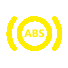
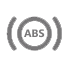
edit timer update_indicators

Changed region(s): [[0.2353, 0.2353, 0.7647, 0.7647], [0.0882, 0.2353, 0.2647, 0.7647], [0.7647, 0.2353, 0.9118, 0.7647]]

diff --git a/SpeedWidget.qml b/SpeedWidget.qml
@@ -108,21 +108,20 @@ Rectangle {
     }
     //[~DISTANCE]
 
-    ToolButton {
+    Image {
         id: image_optics
-        icon.source: indicator_temp_qml.indicator_path[0]
+        source: indicator_temp_qml.indicator_path[0]
         anchors.top: parent.top
         anchors.left: parent.left
         anchors.topMargin: parent.height * 0.05
         anchors.leftMargin: parent.width * 0.25
         height: parent.height * 0.075
-        onClicked: indicator_temp_qml.indicator_str[0] = !indicator_temp_qml.indicator_str[0];
-        //fillMode: Image.PreserveAspectFit
+        fillMode: Image.PreserveAspectFit
     }
 
     Image {
         id: image_optics_2
-        source: "qrc:/ui/optics/optics_1_bw.png";
+        source: indicator_temp_qml.indicator_path[1]
         anchors.top: parent.top
         anchors.left: parent.left
         anchors.topMargin: parent.height * 0.125
@@ -133,7 +132,7 @@ Rectangle {
 
     Image {
         id: image_optics_3
-        source: "qrc:/ui/optics/optics_1_bw.png";
+        source: indicator_temp_qml.indicator_path[2]
         anchors.top: parent.top
         anchors.left: parent.left
         anchors.topMargin: parent.height * 0.25
@@ -144,7 +143,7 @@ Rectangle {
 
     Image {
         id: image_optics_4
-        source: "qrc:/ui/optics/optics_1_bw.png";
+        source: indicator_temp_qml.indicator_path[3]
         anchors.top: parent.top
         anchors.left: parent.left
         anchors.topMargin: parent.height * 0.35
@@ -155,7 +154,7 @@ Rectangle {
 
     Image {
         id: image_optics_5
-        source: "qrc:/ui/optics/optics_1_bw.png";
+        source: indicator_temp_qml.indicator_path[4]
         anchors.top: parent.top
         anchors.right: parent.right
         anchors.topMargin: parent.height * 0.05
@@ -166,7 +165,7 @@ Rectangle {
 
     Image {
         id: image_optics_6
-        source: "qrc:/ui/optics/optics_1_bw.png";
+        source: indicator_temp_qml.indicator_path[5]
         anchors.top: parent.top
         anchors.right: parent.right
         anchors.topMargin: parent.height * 0.125
@@ -177,7 +176,7 @@ Rectangle {
 
     Image {
         id: image_optics_7
-        source: "qrc:/ui/optics/optics_1_bw.png";
+        source: indicator_temp_qml.indicator_path[6]
         anchors.top: parent.top
         anchors.right: parent.right
         anchors.topMargin: parent.height * 0.25
@@ -188,7 +187,7 @@ Rectangle {
 
     Image {
         id: image_optics_8
-        source: "qrc:/ui/optics/optics_1_bw.png";
+        source: indicator_temp_qml.indicator_path[7]
         anchors.top: parent.top
         anchors.right: parent.right
         anchors.topMargin: parent.height * 0.35

diff --git a/MicroWidget.qml b/MicroWidget.qml
@@ -1,10 +1,63 @@
 import QtQuick 2.0
+import QtQuick.Controls
+import QtQuick.Layouts
 
-Item {
     Rectangle
     {
-        width: parent.width
-        height: parent.height
-        color: "yellow"
+        color: "#1f1f1f"
+
+        ColumnLayout
+        {
+        anchors.fill: parent
+        Button
+        {
+            text: "1";
+            onClicked: indicator_temp_qml.indicator_str[0] = !indicator_temp_qml.indicator_str[0];
+        }
+
+        Button
+        {
+            text: "2";
+            onClicked: indicator_temp_qml.indicator_str[1] = !indicator_temp_qml.indicator_str[1];
+        }
+
+
+        Button
+        {
+            text: "3";
+            onClicked: indicator_temp_qml.indicator_str[2] = !indicator_temp_qml.indicator_str[2];
+        }
+
+        Button
+        {
+            text: "4";
+            onClicked: indicator_temp_qml.indicator_str[3] = !indicator_temp_qml.indicator_str[3];
+        }
+
+        Button
+        {
+            text: "5";
+            onClicked: indicator_temp_qml.indicator_str[4] = !indicator_temp_qml.indicator_str[4];
+        }
+
+
+        Button
+        {
+            text: "6";
+            onClicked: indicator_temp_qml.indicator_str[5] = !indicator_temp_qml.indicator_str[5];
+        }
+
+        Button
+        {
+            text: "7";
+            onClicked: indicator_temp_qml.indicator_str[6] = !indicator_temp_qml.indicator_str[6];
+        }
+
+        Button
+        {
+            text: "8";
+            onClicked: indicator_temp_qml.indicator_str[7] = !indicator_temp_qml.indicator_str[7];
+        }
+
+        }
     }
-}

diff --git a/leftsourcefile.cpp b/leftsourcefile.cpp
@@ -10,17 +10,31 @@ Speedometer::Speedometer(QQuickItem * parent): QQuickPaintedItem(parent),
 
 Indicators::Indicators()
 {
-    m_indicator_str.append(true);
-    m_indicator_path.append("qrc:/ui/optics/optics_2.png");
+    for(int i = 0; i < 8; i++)
+            m_indicator_str.append(true);
+    for(int i = 0; i < 8; i++)
+        m_indicator_path.append("1");
 }
 
 void Indicators::update_dimensions()
 {
-    if(m_indicator_str[0])
-    m_indicator_path[0] = "qrc:/ui/optics/optics_1_bw.png";
-    else
-    m_indicator_path[0] = "qrc:/ui/optics/optics_1.png";
-    emit indicator_pathChanged();
+    path_temp = m_indicator_path;
+    for(int i = 0; i < m_indicator_str.size(); i++)
+    {
+        if(m_indicator_str[i])
+        {
+            if (m_indicator_path[i] != "qrc:/ui/optics/optics_" + QString::number(i+1) +"_bw.png")
+                m_indicator_path[i] = ("qrc:/ui/optics/optics_" + QString::number(i+1) +"_bw.png");
+        }
+        else
+        {
+            if (m_indicator_path[i] != "qrc:/ui/optics/optics_" + QString::number(i+1) +".png")
+                m_indicator_path[i] = ("qrc:/ui/optics/optics_" + QString::number(i+1) +".png");
+        }
+    }
+
+    if(path_temp !=m_indicator_path)
+        emit indicator_pathChanged();
 }
 
 void Speedometer::paint(QPainter *painter)

diff --git a/leftsourcefile.h b/leftsourcefile.h
@@ -101,9 +101,9 @@ signals:
     void indicator_pathChanged();
 
 private:
-
     QVector<bool> m_indicator_str;
     QVector<QString> m_indicator_path;
+    QVector<QString> path_temp;
 };
 
 #endif // LEFTSOURCEFILE_H
